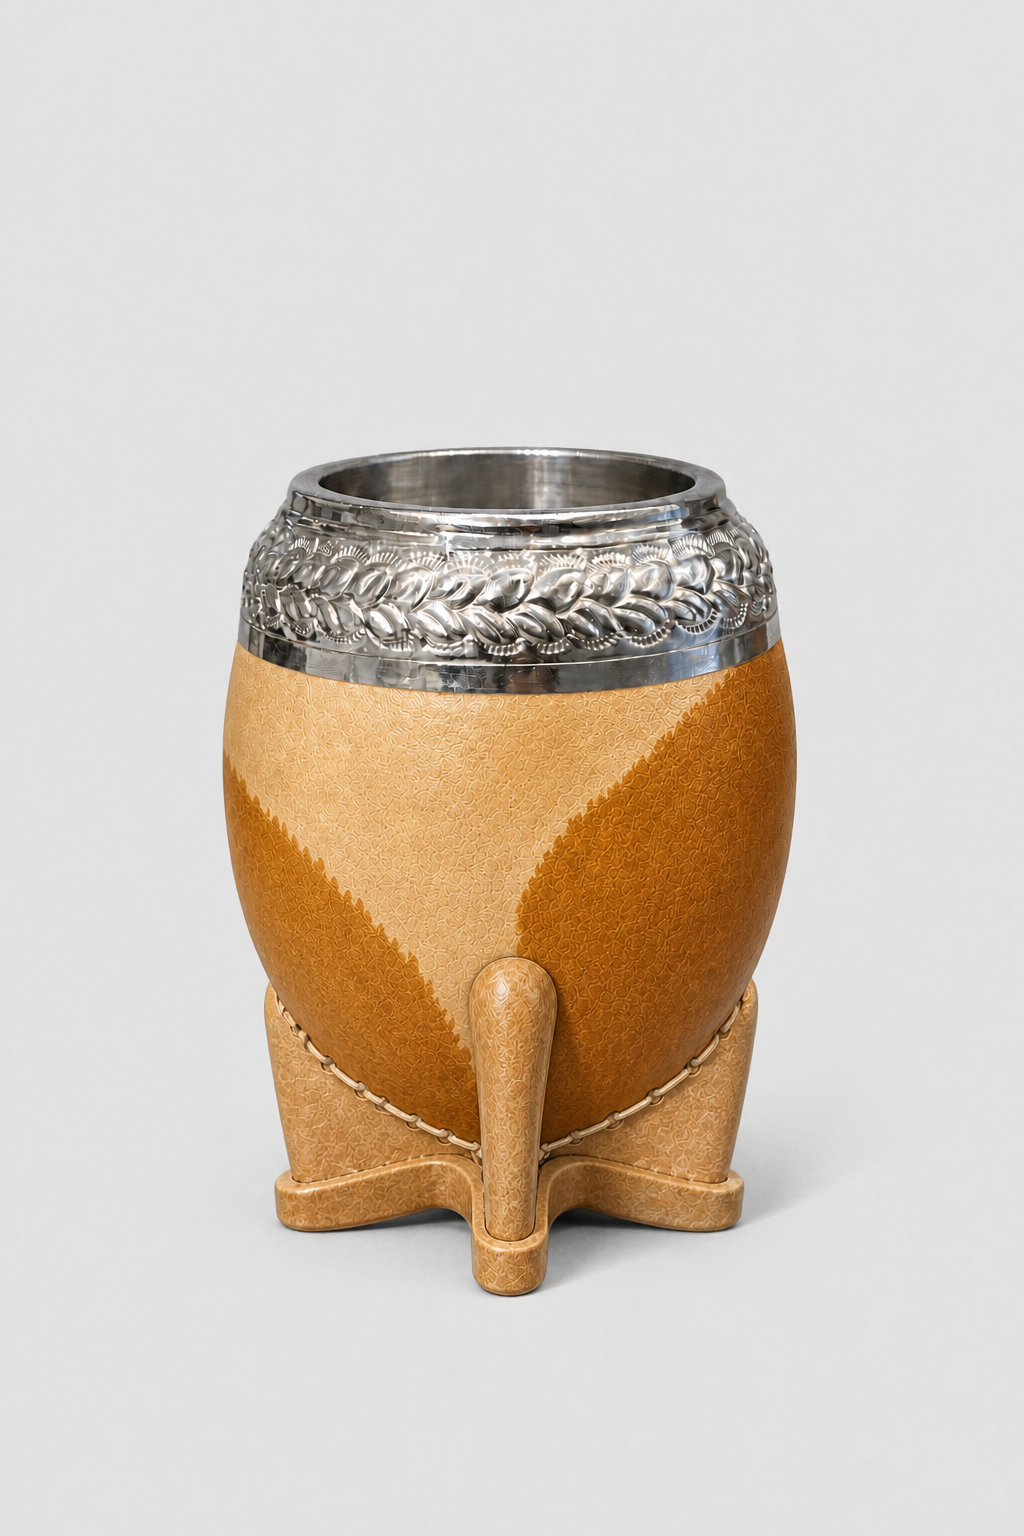
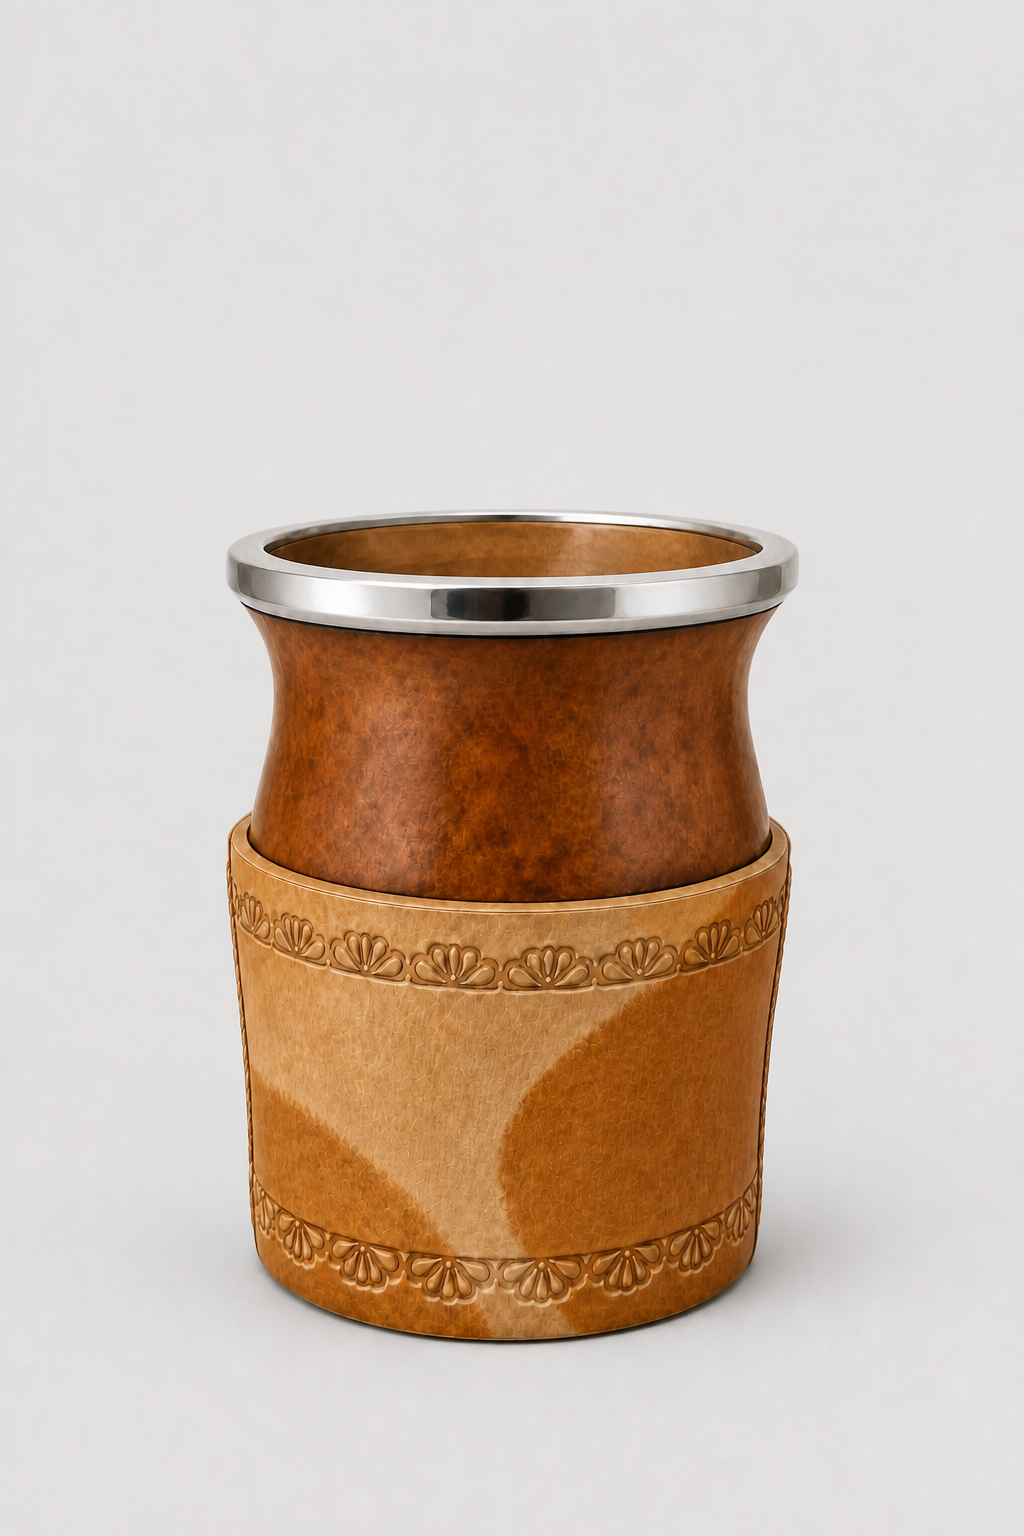
feat: actualiza visuales criollos y grabados torpedo

Changed region(s): [[0.2188, 0.2812, 0.8125, 0.875]]

diff --git a/visualizador/src/catalog/rimCatalog.ts b/visualizador/src/catalog/rimCatalog.ts
@@ -1,5 +1,6 @@
 import type { MateVariant } from "./mateCatalog";
 import type { RimFinishId } from "./rimFinishCatalog";
+import { normalizeEngravingText } from "../utils/engravingText";
 import {
   createDefaultElementTransform,
   normalizeElementTransform,
@@ -105,19 +106,25 @@ export function normalizeRimSelection(variant: MateVariant, current?: Partial<Ri
   const text1Raw = rawTexts.find((t) => t.id === "text-1") ?? rawTexts[0];
   const text2Raw = rawTexts.find((t) => t.id === "text-2") ?? rawTexts[1];
 
-  const primaryText = typeof safeCurrent.text === "string" ? safeCurrent.text : (text1Raw?.text ?? "");
+  const primaryText = sanitizeRimText(
+    typeof safeCurrent.text === "string" ? safeCurrent.text : (text1Raw?.text ?? ""),
+  ).slice(0, MAX_RIM_TEXT_LENGTH);
   const primaryTransform = normalizeElementTransform(safeCurrent.textTransform ?? text1Raw?.transform, "rim");
 
   const texts: RimTextElement[] = [
     {
       id: "text-1",
-      text: typeof text1Raw?.text === "string" ? text1Raw.text : primaryText,
+      text: typeof text1Raw?.text === "string"
+        ? sanitizeRimText(text1Raw.text).slice(0, MAX_RIM_TEXT_LENGTH)
+        : primaryText,
       inverted: typeof text1Raw?.inverted === "boolean" ? text1Raw.inverted : false,
       transform: normalizeElementTransform(text1Raw?.transform ?? primaryTransform, "rim"),
     },
     {
       id: "text-2",
-      text: typeof text2Raw?.text === "string" ? text2Raw.text : "",
+      text: typeof text2Raw?.text === "string"
+        ? sanitizeRimText(text2Raw.text).slice(0, MAX_RIM_TEXT_LENGTH)
+        : "",
       inverted: typeof text2Raw?.inverted === "boolean" ? text2Raw.inverted : true,
       transform: normalizeElementTransform(text2Raw?.transform, "rim"),
     },
@@ -142,5 +149,5 @@ export function normalizeRimSelection(variant: MateVariant, current?: Partial<Ri
 }
 
 export function sanitizeRimText(value: string): string {
-  return value.replace(/\s+/g, " ").replace(/^ /, "");
+  return normalizeEngravingText(value);
 }

diff --git a/visualizador/src/catalog/customizer.test.ts b/visualizador/src/catalog/customizer.test.ts
@@ -1,7 +1,7 @@
 import { describe, expect, it } from "vitest";
 import { calculateRimCharacterLayout, createArcPath, getRimGeometryProfile } from "./rimGeometry";
 import { getDefaultColor, getDefaultVariant, getVariantsByModel } from "./mateCatalog";
-import { createDefaultRimSelection, MAX_RIM_TEXT_LENGTH } from "./rimCatalog";
+import { createDefaultRimSelection, MAX_RIM_TEXT_LENGTH, normalizeRimSelection, sanitizeRimText } from "./rimCatalog";
 import {
   calculateOrderPricing,
   countChargeableCharacters,
@@ -60,6 +60,29 @@ describe("catálogo enriquecido", () => {
 });
 
 describe("compatibilidad de personalizaciones", () => {
+  it("normaliza en mayúsculas todos los textos de virola y fleje", () => {
+    const variant = getDefaultVariant("imperial");
+    const rim = normalizeRimSelection(variant, {
+      text: "Richard",
+      texts: [
+        { id: "text-1", text: "Richard", transform: { x: 0.5, y: 0.5, scale: 1, rotation: 0, side: "rim" } },
+        { id: "text-2", text: "María José", transform: { x: 0.5, y: 0.5, scale: 1, rotation: 0, side: "rim" } },
+      ],
+    });
+    const fleje = normalizeFlejeCustomization({
+      sides: {
+        front: { textMode: "text", text: "Richard" },
+        back: { textMode: "text", text: "María" },
+      },
+    });
+
+    expect(sanitizeRimText("Richard pérez")).toBe("RICHARD PÉREZ");
+    expect(rim.text).toBe("RICHARD");
+    expect(rim.texts.map((item) => item.text)).toEqual(["RICHARD", "MARÍA JOSÉ"]);
+    expect(fleje.sides.front.text).toBe("RICHARD");
+    expect(fleje.sides.back.text).toBe("MARÍA");
+  });
+
   it("migra el formato antiguo de fleje a la cara frontal", () => {
     const migrated = normalizeFlejeCustomization({
       finishMode: "finish",

diff --git a/visualizador/src/components/MateSelectionStep.tsx b/visualizador/src/components/MateSelectionStep.tsx
@@ -7,6 +7,7 @@ import {
   mateSizeDecisionLabels,
   shouldAskForMetal,
   getEngravingCapabilities,
+  usesTorpedoVirolaEngravingAssets,
   type MateFamilyId,
   type MateSelection,
   type MateSelectionStage,
@@ -285,6 +286,7 @@ export function MateSelectionStep({ stage, selection, onChange, onBack, onContin
       {stage === "engraving" && (() => {
         const capabilities = getEngravingCapabilities(selection.familyId, selection.textureId);
         const filteredOptions = engravingTypeOptions.filter((option) => capabilities.virolaEngravingTypes.includes(option.id));
+        const useTorpedoImages = usesTorpedoVirolaEngravingAssets(selection);
         return (
           <fieldset className={`selection-engraving-grid ${filteredOptions.length === 3 ? "selection-engraving-grid--triple" : ""}`}>
             <legend className="sr-only">Tipo de grabado para virola</legend>
@@ -299,7 +301,7 @@ export function MateSelectionStep({ stage, selection, onChange, onBack, onContin
               <span className="selection-product-card__title">{option.label}</span>
               <img
                 className="selection-image"
-                src={selection.familyId === "torpedo" ? option.torpedoImage ?? option.image : option.image}
+                src={useTorpedoImages ? option.torpedoImage ?? option.image : option.image}
                 alt={`Referencia de ${option.label}`}
                 loading="lazy"
                 draggable={false}

diff --git a/visualizador/src/catalog/mateDecisionCatalog.ts b/visualizador/src/catalog/mateDecisionCatalog.ts
@@ -245,7 +245,7 @@ const colorPreviewImages = {
     "cuero-crudo-criollo": mateColor("criollo", "imperial-criollo-posa-mate", "cuero-crudo.jpg"),
   },
   criolloCamioneroPosaMate: {
-    vaqueta: mateColor("criollo", "camionero-criollo-posa-mate", "vaqueta.jpg"),
+    vaqueta: mateColor("criollo", "camionero-criollo-posa-mate", "vaqueta.png"),
     "cuero-crudo-criollo": mateColor("criollo", "camionero-criollo-posa-mate", "cuero-crudo.png"),
   },
 } satisfies Record<string, Record<string, string>>;
@@ -523,6 +523,11 @@ export function getMateFamily(familyId: MateFamilyId | null | undefined) {
 
 export function getSelectedTexture(selection: Partial<MateSelection>) {
   return getMateFamily(selection.familyId)?.textures.find((item) => item.id === selection.textureId);
+}
+
+export function usesTorpedoVirolaEngravingAssets(selection: Partial<MateSelection>) {
+  if (selection.familyId === "torpedo") return true;
+  return selection.familyId === "criollo" && getSelectedTexture(selection)?.shapeId === "torpedo";
 }
 
 export function shouldAskForMetal(selection: Partial<MateSelection>) {

diff --git a/visualizador/src/types/customizer.ts b/visualizador/src/types/customizer.ts
@@ -2,6 +2,7 @@ import type { FlejeFinishId } from "../catalog/flejeFinishCatalog";
 import type { MateModel, MateSize } from "../catalog/mateCatalog";
 import type { EngravingTypeId, MateCapabilities, MateSelection } from "../catalog/mateDecisionCatalog";
 import type { RimCustomization } from "../catalog/rimCatalog";
+import { normalizeEngravingText } from "../utils/engravingText";
 
 export type CustomizationSide = "rim" | "front" | "back";
 export type EditableElement = "text" | "image" | "finish" | string;
@@ -187,7 +188,7 @@ export function normalizeFlejeCustomization(value: unknown): FlejeCustomization 
 
     return {
       textMode: sideInput.textMode === "text" ? "text" : "none",
-      text: typeof sideInput.text === "string" ? sideInput.text : "",
+      text: typeof sideInput.text === "string" ? normalizeEngravingText(sideInput.text) : "",
       imageMode: sideInput.imageMode === "image" ? "image" : "none",
       selectedImageId: typeof sideInput.selectedImageId === "string" ? sideInput.selectedImageId : null,
       customImage,

diff --git a/visualizador/src/catalog/mateDecisionCatalog.test.ts b/visualizador/src/catalog/mateDecisionCatalog.test.ts
@@ -19,6 +19,7 @@ import {
   sanitizeMateSelection,
   shouldReturnToIncompleteStage,
   shouldAskForMetal,
+  usesTorpedoVirolaEngravingAssets,
   type MateSelection,
 } from "./mateDecisionCatalog";
 
@@ -302,5 +303,17 @@ describe("compatibilidad y assets del catálogo", () => {
       const physicalPath = join(process.cwd(), "public", entry.src.replace(/^\//, ""));
       expect(existsSync(physicalPath), `Falta archivo ${physicalPath}`).toBe(true);
     }
+  });
+
+  it("usa las fotos de virola Torpedo también para el Torpedo criollo", () => {
+    expect(usesTorpedoVirolaEngravingAssets({ familyId: "torpedo" })).toBe(true);
+    expect(usesTorpedoVirolaEngravingAssets({
+      familyId: "criollo",
+      textureId: "torpedo-criollo-posa-mate",
+    })).toBe(true);
+    expect(usesTorpedoVirolaEngravingAssets({
+      familyId: "criollo",
+      textureId: "imperial-criollo-posa-mate",
+    })).toBe(false);
   });
 });

diff --git a/visualizador/src/catalog/mateAssetCatalog.ts b/visualizador/src/catalog/mateAssetCatalog.ts
@@ -43,7 +43,7 @@ export const mateAssetCatalog: Record<string, MateAssetEntry> = {
   "imperial-clasico": asset("imperial/virola-plata-900/natural.png", "Imperial con virola de plata 900"),
   "camionero-liso": asset("camionero/alpaca-comun-patas/natural.png", "Camionero con alpaca común"),
   "camionero-artesanal": asset("camionero/alpaca-comun-patas/natural.png", "Camionero con alpaca común"),
-  "camionero-criollo-posa-vaqueta": asset("criollo/camionero-criollo-posa-mate/vaqueta.jpg", "Camionero criollo con posa mate de vaqueta"),
+  "camionero-criollo-posa-vaqueta": asset("criollo/camionero-criollo-posa-mate/vaqueta.png", "Camionero criollo con posa mate de vaqueta"),
 };
 
 export function getMateAssetPath(variantId: string, fallback: string) {

diff --git a/visualizador/src/utils/engravingText.ts b/visualizador/src/utils/engravingText.ts
@@ -1,0 +1,6 @@
+export function normalizeEngravingText(value: string): string {
+  return value
+    .replace(/\s+/g, " ")
+    .replace(/^ /, "")
+    .toLocaleUpperCase("es-UY");
+}
